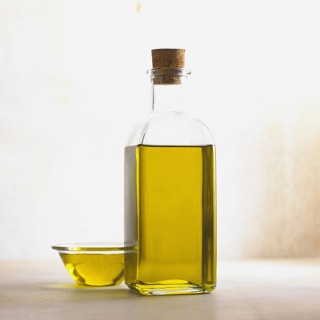
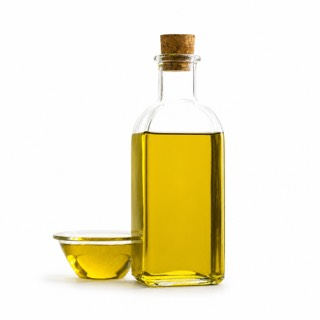
Standardize olive oil catalog image

diff --git a/docs/image-validation.md b/docs/image-validation.md
@@ -40,7 +40,7 @@ The current catalog contains 98 public food image sets. Miso and Kombucha are in
 | Spinach | `assets/images/real/spinach-clean.jpg` | Pass | Generated raw spinach bunch isolated on white without the previous bowl and outdoor background. |
 | Salmon | `assets/images/real/salmon.png` | Pass | Clean raw salmon fillet on a white background. |
 | Oats | `assets/images/real/oats.png` | Pass | Small mountain of rolled oats on a clean white background. |
-| Olive Oil | `assets/images/real/olive-oil.jpg` | Pass | Clean bottle-and-dish photograph on a bright neutral background; replacement removes the embedded circular outline from both optimized variants. |
+| Olive Oil | `assets/images/real/olive-oil.jpg` | Pass | Clear bottle and small oil dish isolated on seamless pure white; no inset square, tabletop horizon, beige cast, or visible image boundary in either optimized variant. |
 | Walnuts | `assets/images/real/walnuts.png` | Pass | Generated product-style raw walnut image on a clean white background. |
 | Coconut Yogurt | `assets/images/real/coconut-yogurt.png` | Pass | Generated coconut yogurt image with a coconut piece in the yogurt on a clean white background. |
 | Sweet Potato | `assets/images/real/sweet-potato.png` | Pass | Raw sweet potato with cut pieces on a clean white background. |
